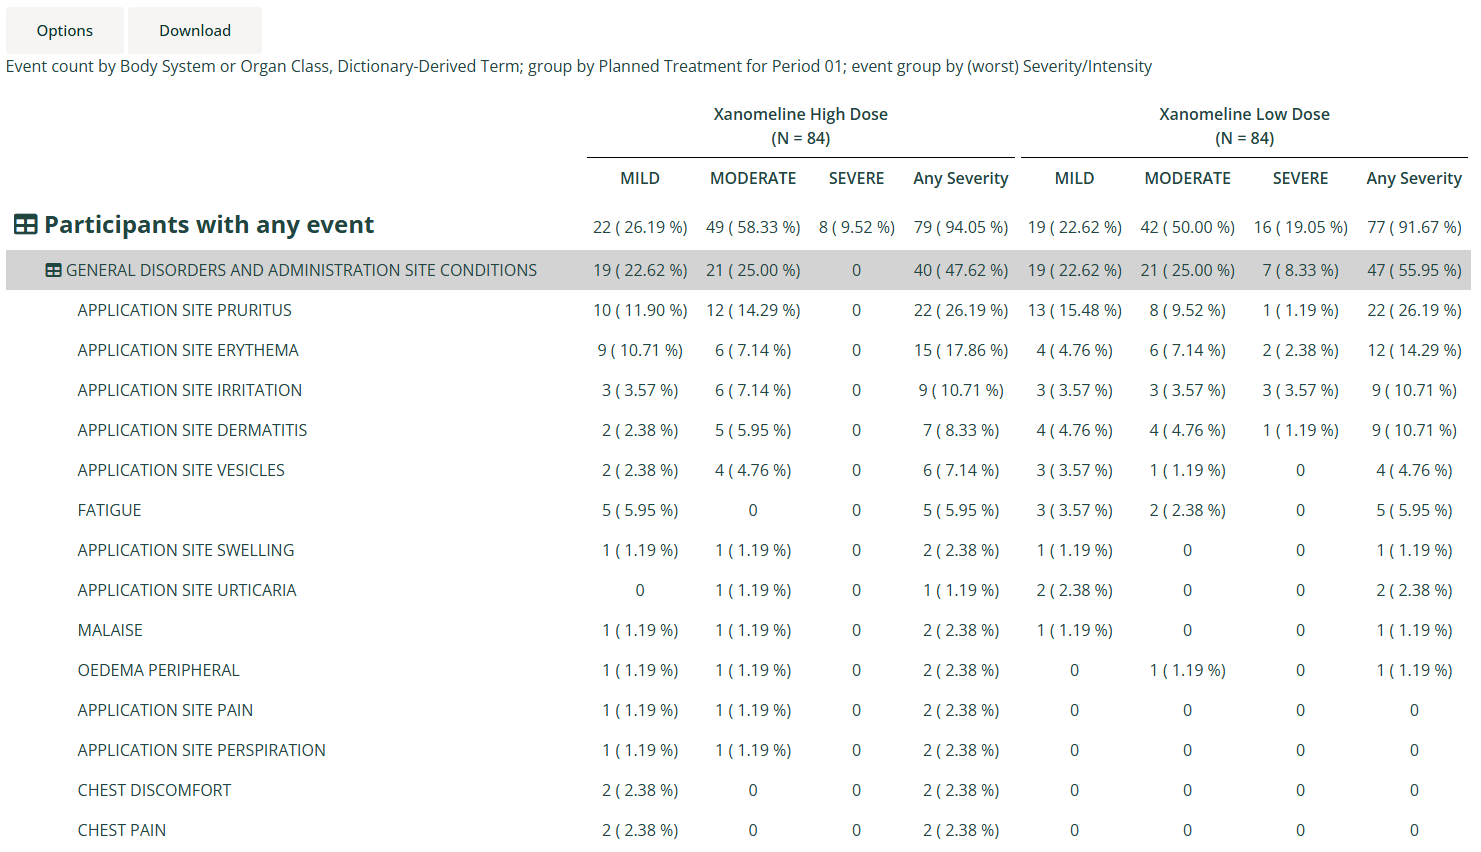
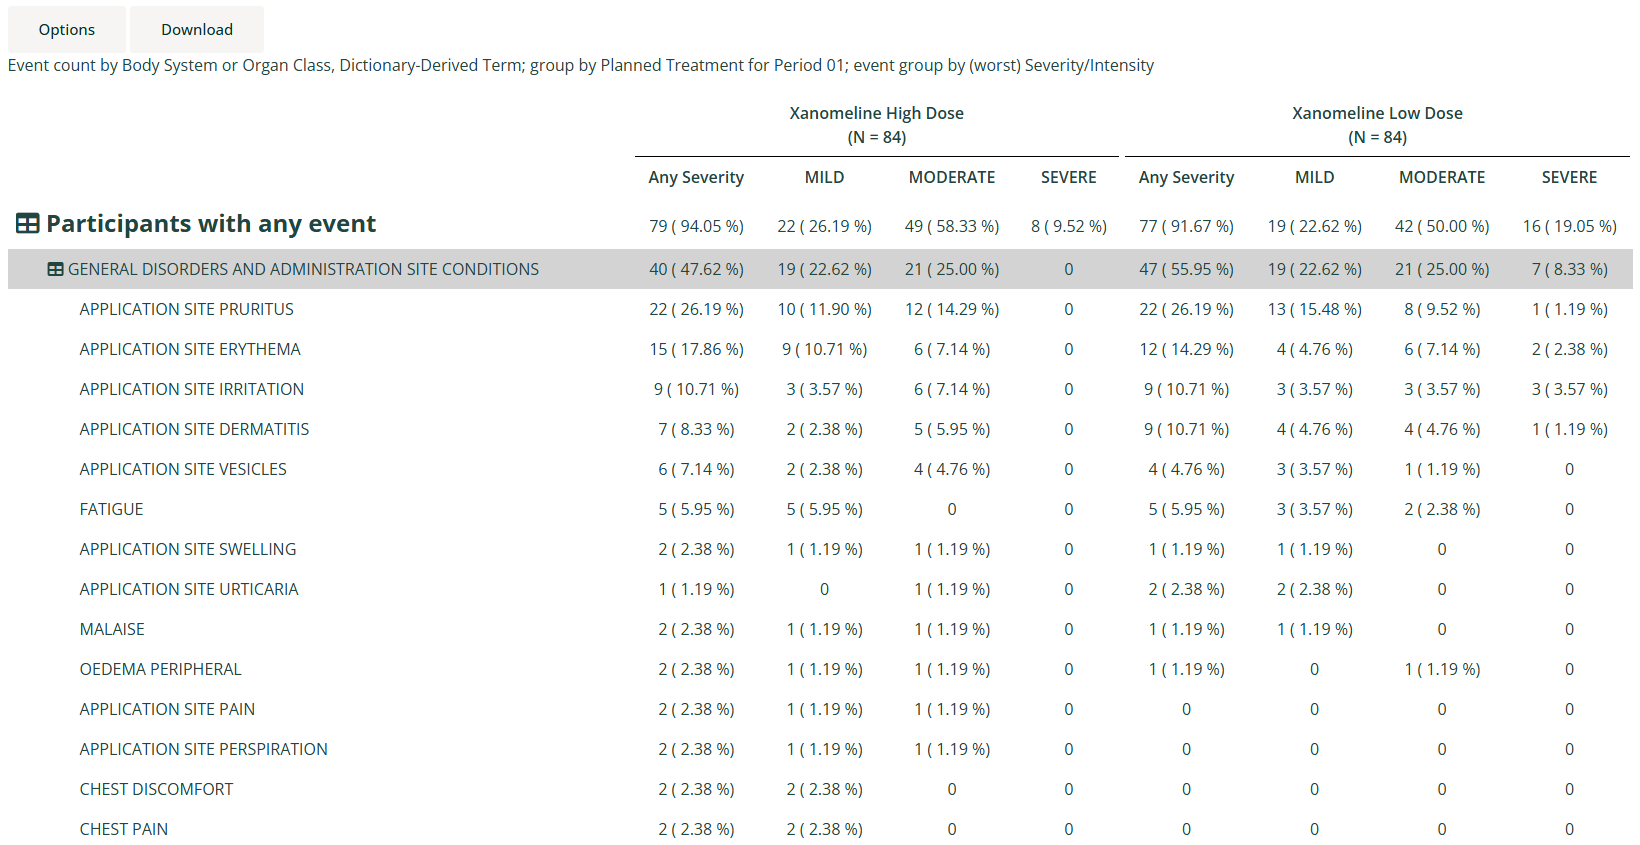
Total in first column position for worst value event grp var otherwise last column position

diff --git a/NEWS.md b/NEWS.md
@@ -1,3 +1,8 @@
+# dv.tables 0.6.1-9001
+
+* `mod_hierarchical_count_table`:
+  * Total placed in first column position for worst value event group variable, otherwise last column position.
+
 # dv.tables 0.6.1-9000
 
 * `mod_hierarchical_count_table`:
